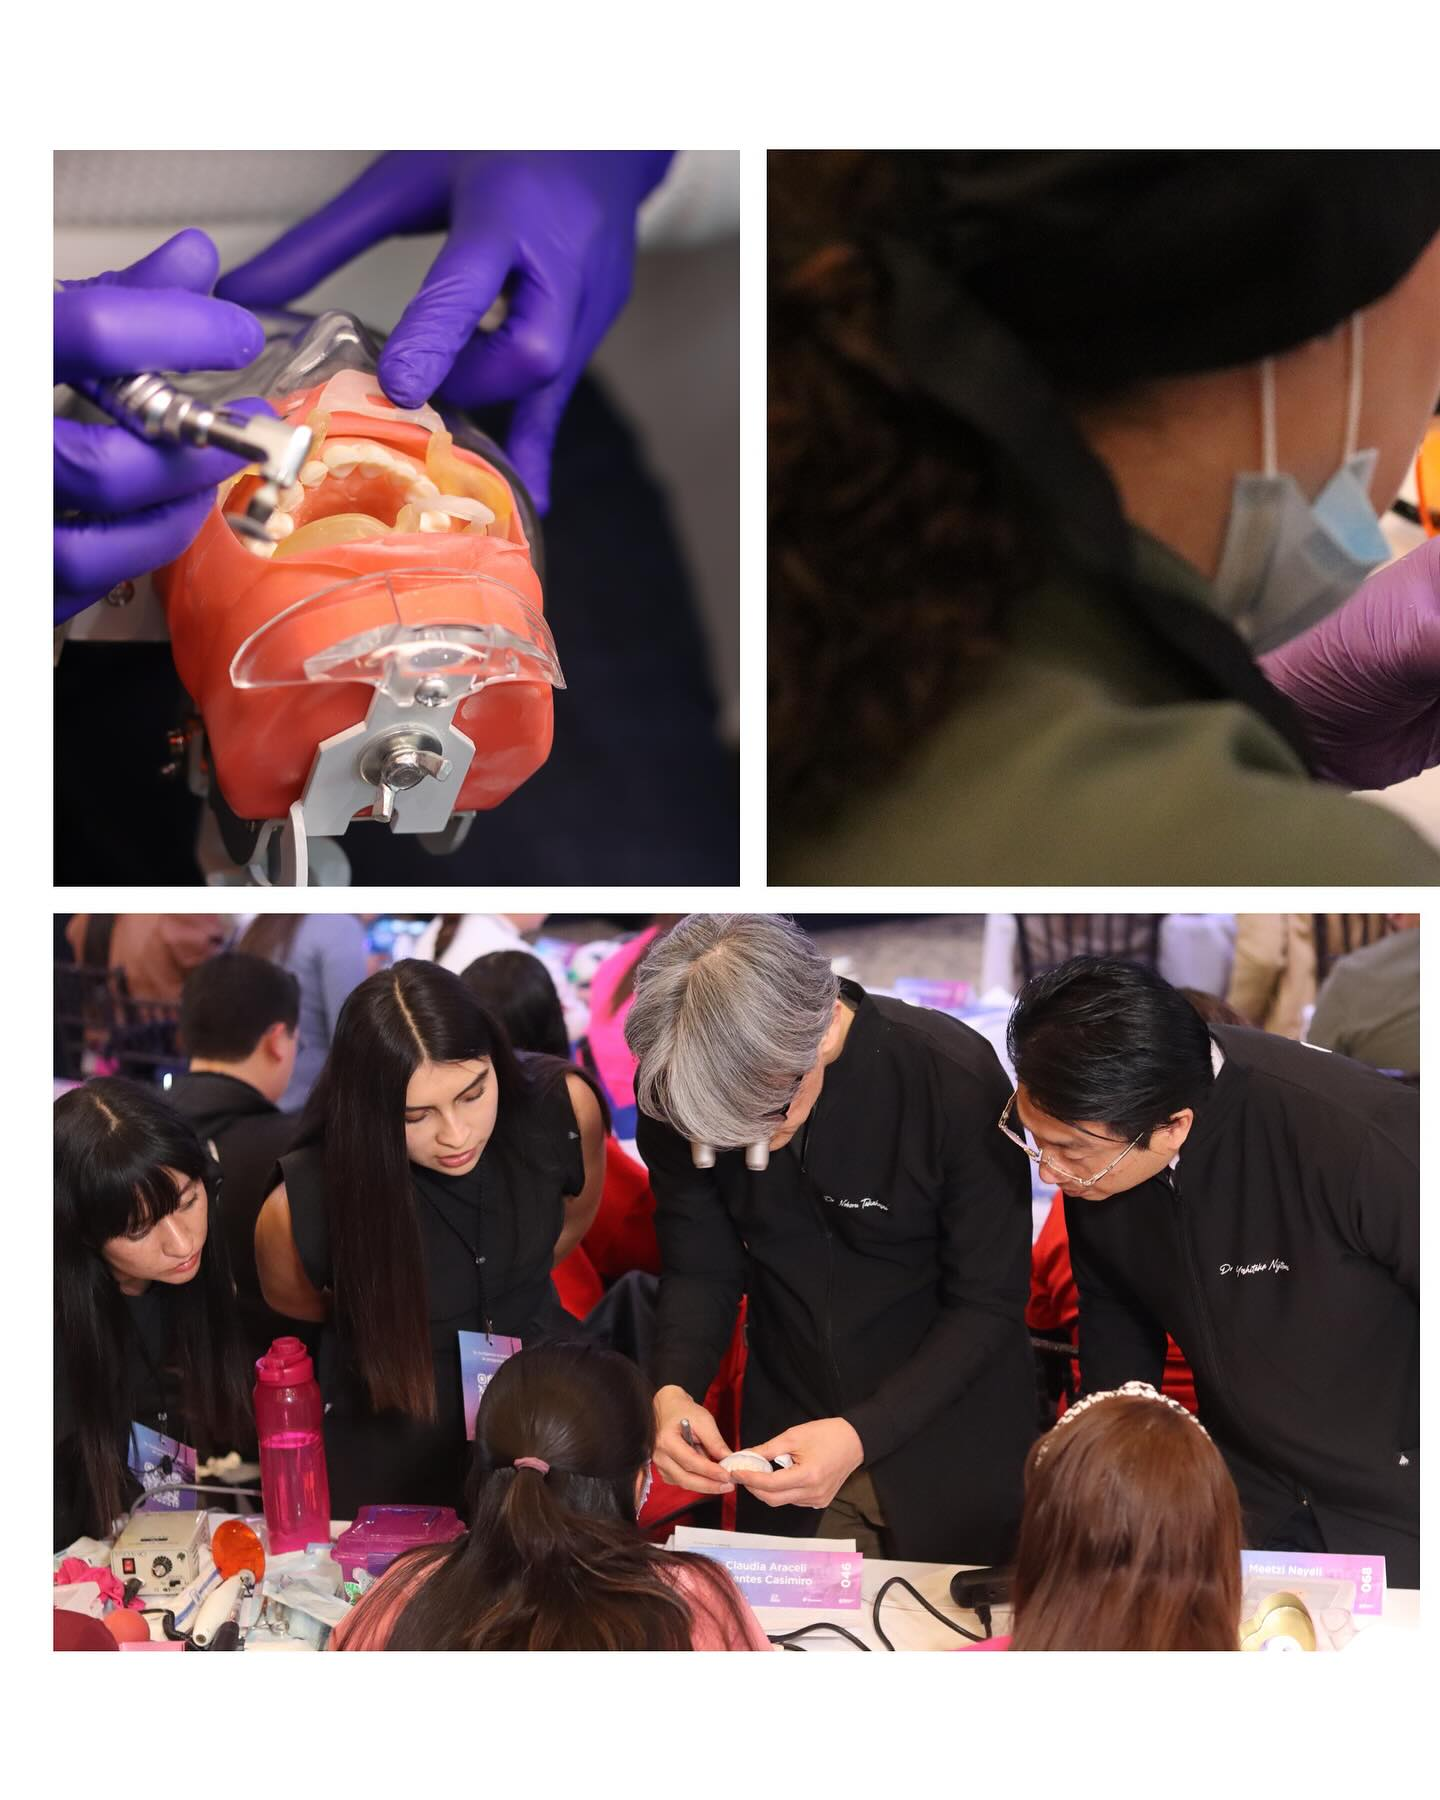
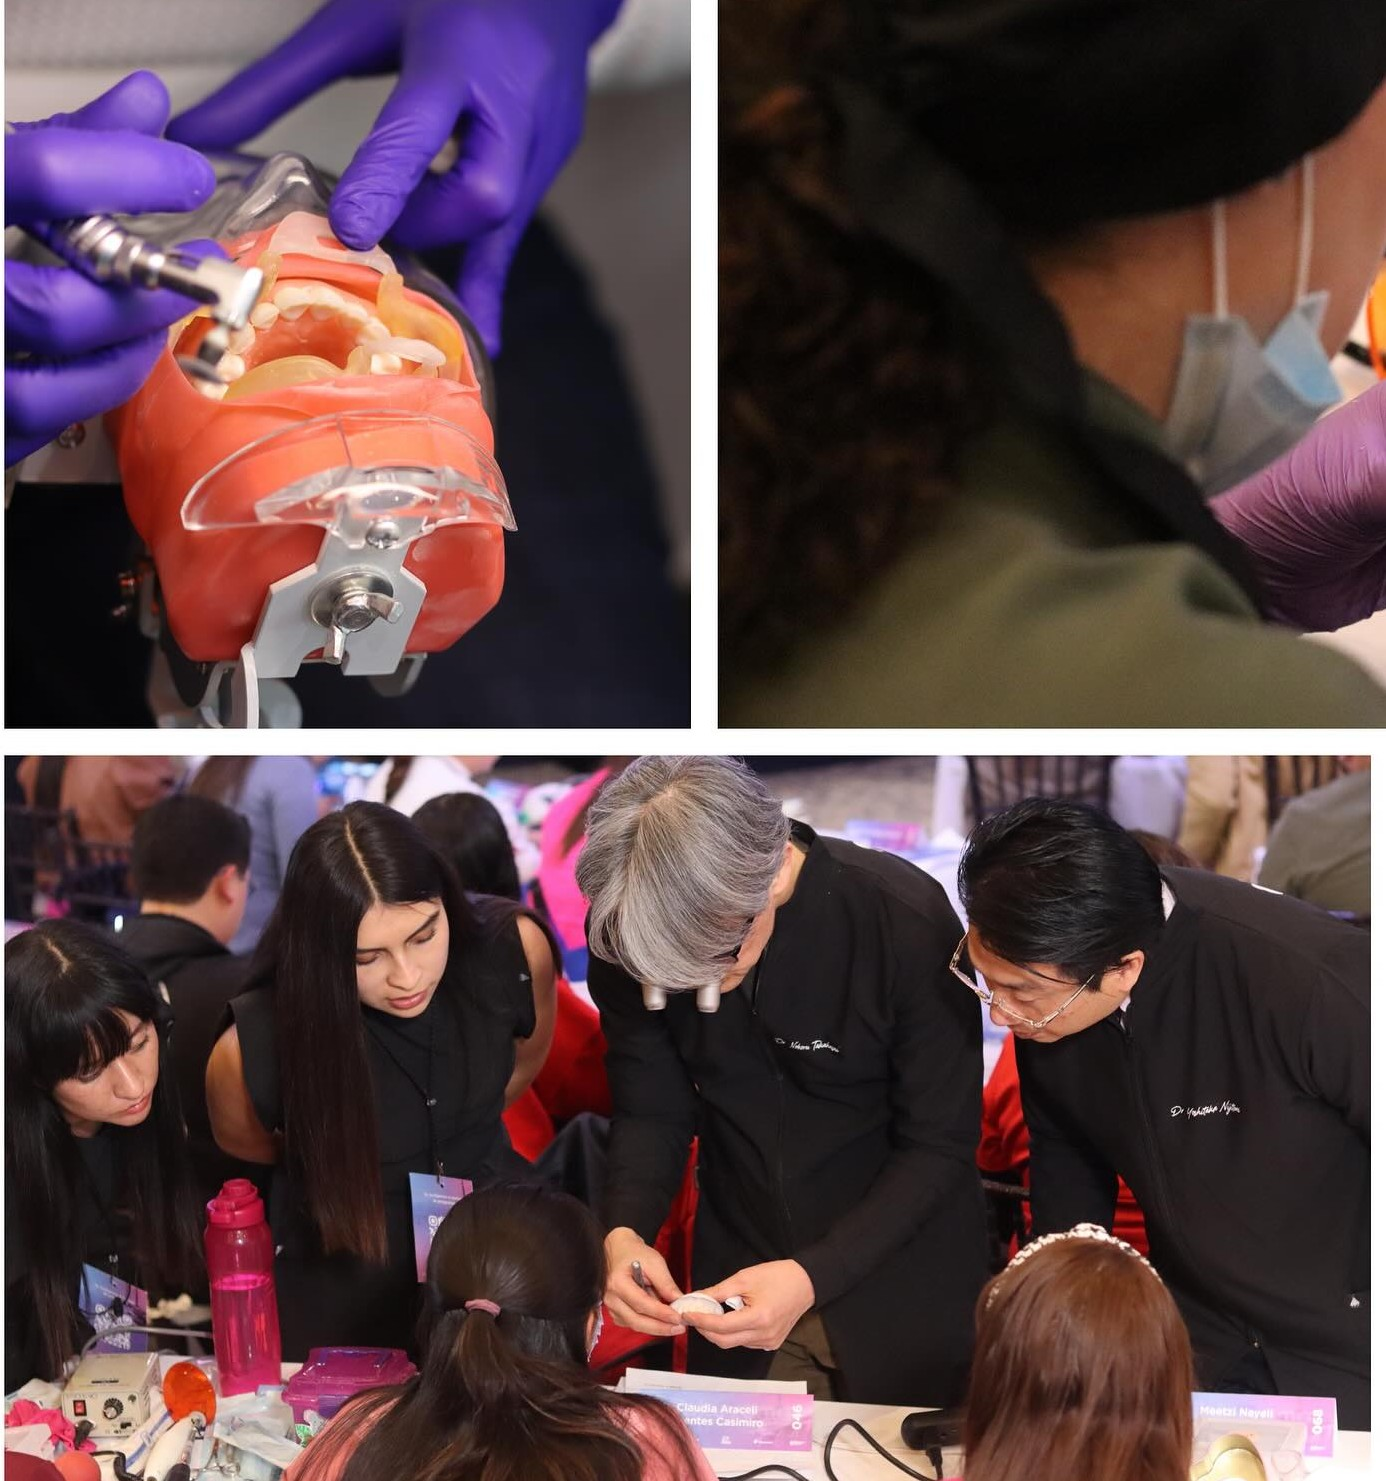
boton evento

diff --git a/app/components/Evento.tsx b/app/components/Evento.tsx
@@ -90,9 +90,16 @@ export default function Evento() {
       <div className="relative z-10 max-w-6xl mx-auto px-10 mt-20 pb-24">
         <div className="w-full flex justify-center">
           
-            <button className="px-10 py-3 border border-black tracking-wide uppercase text-sm hover:bg-black hover:text-white transition-all duration-300">
-              Proximamente
-            </button>
+            <a
+              href="https://fest.tokuyama.mx/"
+              target="_blank"
+              rel="noopener noreferrer"
+            >
+              <button className="px-10 py-3 border border-black tracking-wide uppercase text-sm hover:bg-black hover:text-white transition-all duration-300">
+                Próximamente
+              </button>
+            </a>
+
         </div>
       </div>
     </section>
